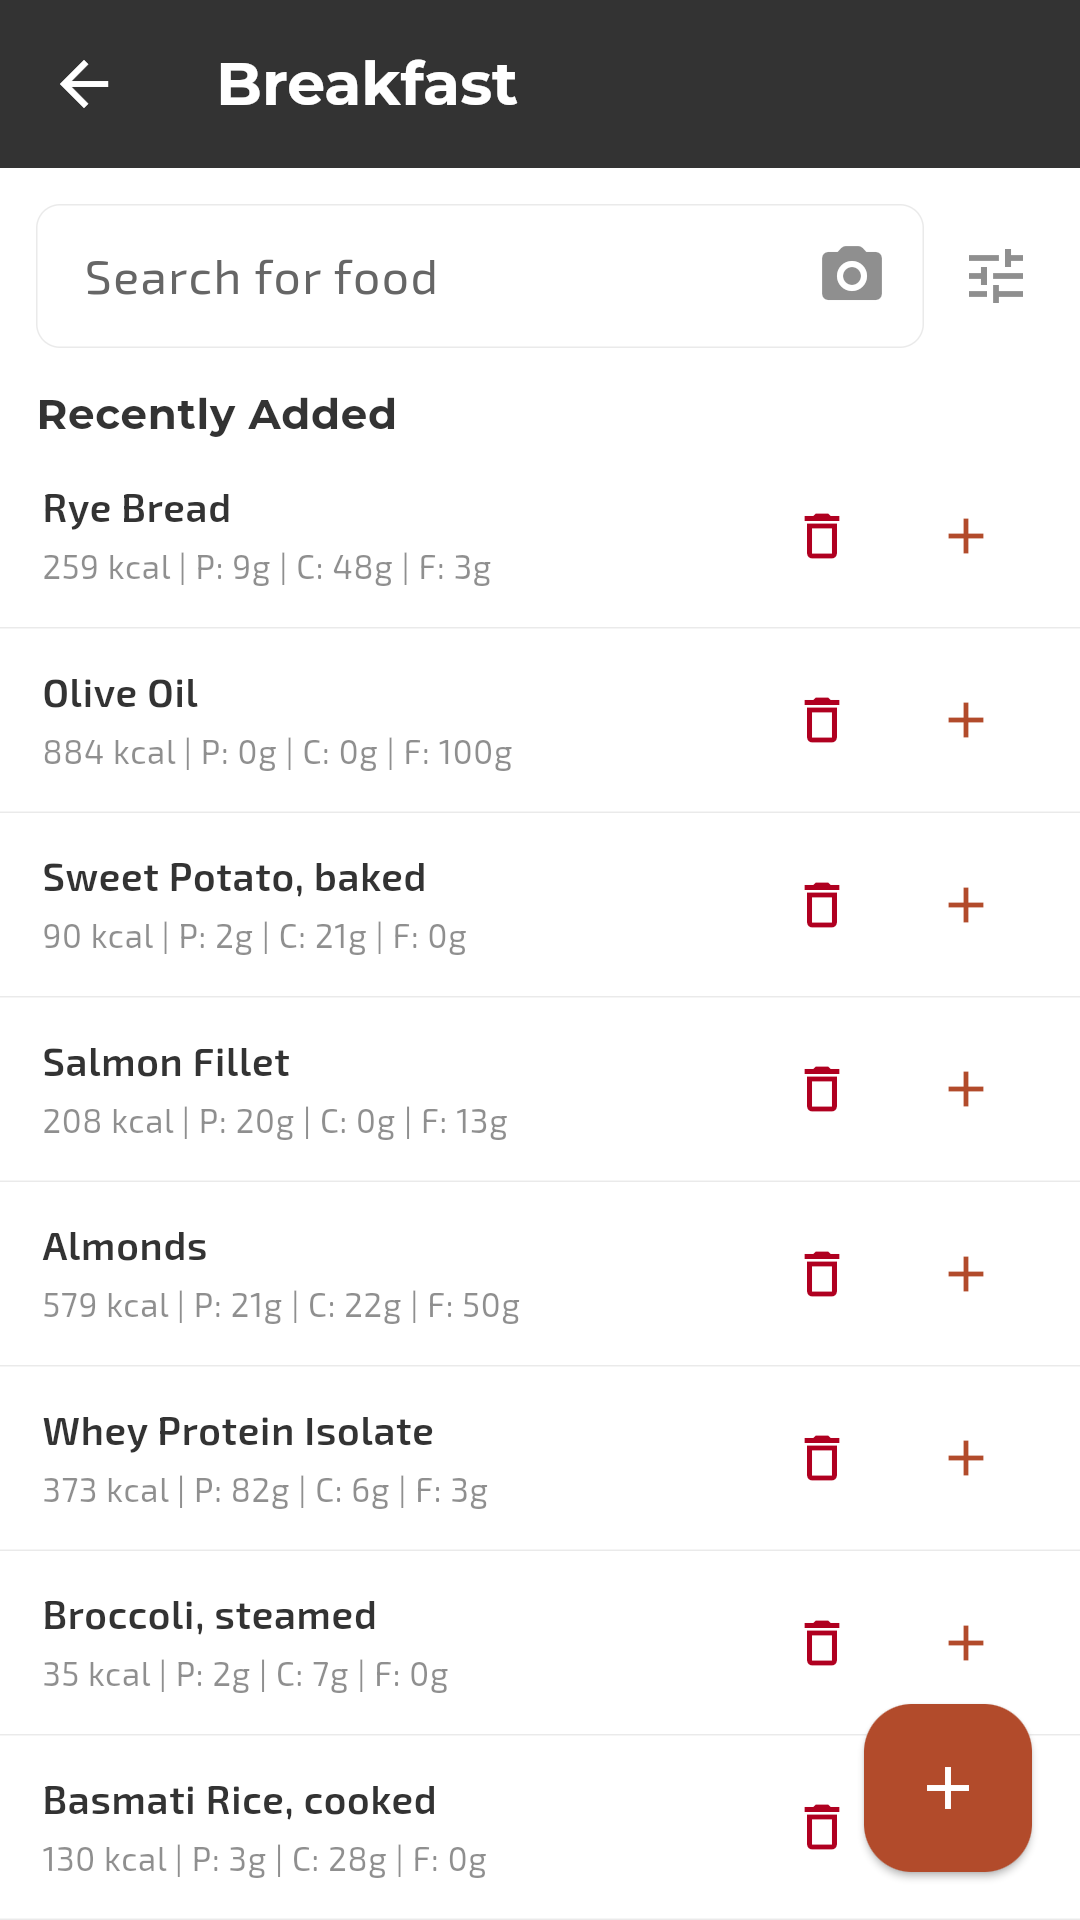
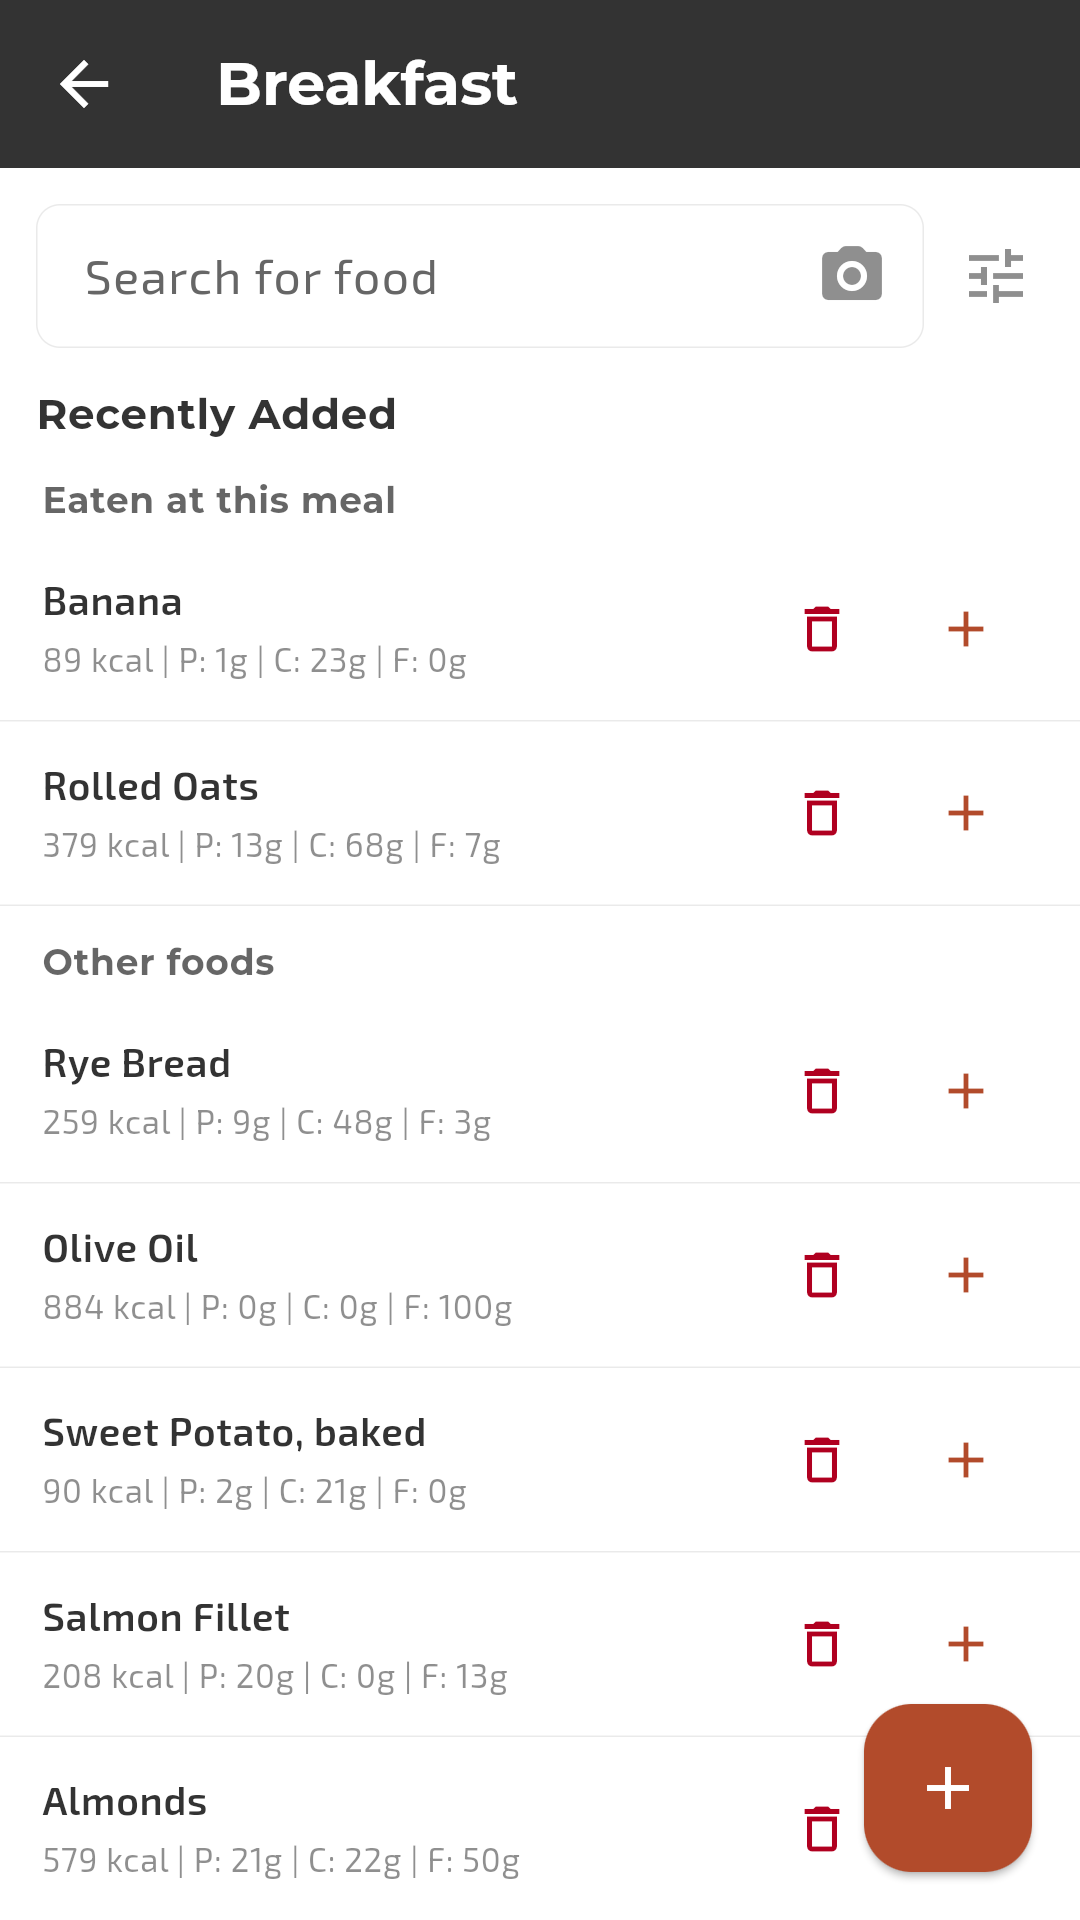
Recapture the store screenshots against main, now the food fix has landed
`claude/food-search-meal-organization-5m043l` merged; main is at 30291b7
(Release 1.0.2+15). Merged it into this branch, rebuilt the web bundle from it,
and re-ran the capture and compose steps.

The food picker frame is the one that changed. It showed the pre-fix "Recently
Added" — one flat list in row-id order, identical whichever meal you were
logging — and now shows what that branch introduced: an "Eaten at this meal"
group, holding the foods this account actually eats at breakfast, above a
second "Other foods" group.

This is the case the capture pipeline exists for, and the reason the mockups it
replaced were the wrong deliverable. A drawing goes on showing whatever the
person drawing it remembered, indefinitely and invisibly. A capture had to be
re-run against the merged code, and the change is a diff in a PNG.

The two open data problems are unchanged and still recorded in
store/screenshots/README.md: Progress -> Gym reads 1 total workout despite eight
completed sessions being posted, and the Calorie Trend still draws a flat line
with `GET /api/Meal` returning 500.

Claude-Session: https://claude.ai/code/session_01Hm9JjqvEBtPm6Da1rPYGgE

diff --git a/CHANGELOG.md b/CHANGELOG.md
@@ -23,6 +23,7 @@ it is what those users have, and nothing new belongs in it. See
 - Fixed coach chat being unreachable in review/test builds: the seed's two trainee accounts were never linked to a trainer, so the card that opens it never rendered. Not an app defect — the previous note calling this a possible one was wrong; see `docs/frontend-design-review.md` section 14 for the correction.
 - Added `store/` — the App Store and Google Play listing package: subtitle, promotional text, short description, long description, ASO keywords, and six store screenshots. Every claim in the copy is traced to a symbol in this repo rather than to a memory of the app, and doing that turned up two places where the app's own copy contradicts the app's own behaviour: the paywall advertises CSV export as a Premium feature but none of the four export tiles in Settings is wrapped in `PremiumGate`, so a free user gets their CSV; and `PremiumGate` wraps the rest-timer *switch* rather than the timer, whose preference defaults to true and is read with no entitlement check, so free users get the rest timer and cannot turn it off while paying users get the ability to turn it off. Neither is fixed here — each is a one-line change and the two possible fixes are opposite, so both need a product decision. The listing describes the shipped behaviour in both cases.
 - The screenshots are captured from the running app and then framed. `store/screenshots/capture-app.mjs` drives the built Flutter web bundle in a browser, signs in through the real login screen as the account `e2e/tools/seed-review-data.mjs` seeds, and photographs seven screens at both stores' phone sizes; `compose.mjs` wraps six of them in a headline band and a device bezel, which is what gets uploaded. The two steps stay separate so the bare captures remain in the repo as evidence that the artwork contains real app pixels — nothing in the compositing step redraws a screen. `store/screenshots/README.md` is the runbook for the Postgres/API/seed/build stack it all needs. An earlier revision shipped hand-written HTML mockups of the app instead, which was wrong: held against the running app they had the theme, the tab count, the dashboard's cards and the entire set-logging flow wrong — the app logs one set at a time through a stepper, not a table. Three things the capture path turned up and now encodes: the app throws `Incorrect locale information provided` and never mounts if the browser's locale is one `intl` cannot parse, which surfaces only as a boot timeout; the Dashboard must be shot after other screens because its aggregates are only correct once `SyncService.pullAll()` has landed, and shooting it first photographs zeroes on a populated account; and a pushed route cannot be popped with browser-back, with the food-search screen exposing no back control to the accessibility tree at all — a dead end for a screen-reader user too, and worth fixing in the app.
+- Recaptured the store screenshots against main at `30291b7`, now that `claude/food-search-meal-organization-5m043l` has merged. The food picker frame previously showed the pre-fix "Recently Added" — one flat list in row-id order — and now shows what that branch introduced: an "Eaten at this meal" group above "Other foods". This is the case the capture pipeline exists for. A drawn mockup would have gone on showing whichever list the person drawing it remembered; a capture had to be re-run against the merged code, and the change is visible in the diff of the PNG.
 - Added `store/screenshots/seed-screenshot-extras.mjs`, which tops the seeded trainee up with completed training history and per-day calorie variation. It is deliberately separate from `e2e/tools/seed-review-data.mjs`, whose counts the Playwright suite asserts against — bending a test fixture to suit marketing artwork is how a fixture stops meaning anything. It also records a bug in that fixture's arithmetic: the one session it marks complete is dated `daysAgo(i - 2)` with `i === 0`, which is two days in the *future*, so Progress counted zero completed workouts on an account that looked fully populated everywhere else. Two things remain unresolved and are written down rather than papered over: Progress → Gym still reads 1 total workout and a 0-day streak even after eight completed sessions are posted across the last ten days, and still shows "No workout data yet" under Exercise Progress — most likely because those tiles count logged sessions with sets rather than scheduled workouts flagged complete, which is unconfirmed; and the Calorie Trend still draws a flat line, with the cause unestablished because `GET /api/Meal` returns 500 on this build. That 500 is worth a look on its own. See `docs/store-listing.md`.
 - Found and documented, not yet fixed: the Trainer Console roster's Grid view (its default) renders each client's name, program, adherence and last session, none of which reaches a screen reader — not unlabelled, entirely absent from the accessibility tree. Table view, showing the same data, is unaffected. See `docs/frontend-design-review.md` section 14.
 - The food search opened from a meal now orders "Recently Added" by that meal. Breakfast, lunch, dinner and snacks all showed the identical list in the identical order, because the list read the device's food library — which records no meal and no time — and sorted it by row id. The category the screen is opened with was used for the title and for the write, and never for the read, so a user logging breakfast scrolled past their lunch foods to reach their breakfast ones every morning. Foods previously eaten at the meal being logged now come first under their own heading, most recently eaten first, with everything else under a second heading; a meal with no history renders flat, with no headings, as before. The match is on food name rather than on `MealFoodTable.foodEntryId`, because adding a food from the recent list writes a *new* `FoodItem` row for that portion — the id in the meal is never the id on screen, so the obvious join returns nothing and reports no error. The client's `Snack`/`Snacks` fold now lives in one `MealCategory` helper mirroring the server's, which the Trainer Console's private copy delegates to. See `docs/recent-foods-by-meal.md`.

diff --git a/store/LISTING.md b/store/LISTING.md
@@ -216,7 +216,7 @@ proposition, because in search results it is often the only one seen.
 | 1 | Training and nutrition. **One app.** | Dashboard — 2186 kcal, 1/3 workouts, Upper A, weight progress |
 | 2 | Log a set. **Keep moving.** | Active workout — Bench Press, 82.5 kg × 8 |
 | 3 | Macros that **actually add up.** | A logged day — 2,186 / 2,000 kcal, macros, meals by category |
-| 4 | Log food **in seconds.** | The food picker for one meal |
+| 4 | Log food **in seconds.** | The food picker for one meal — "Eaten at this meal" above "Other foods" |
 | 5 | See the trend, **not just today.** | Progress → Nutrition over the selected range |
 | 6 | Your plan, **on your calendar.** | Today's scheduled session — Upper A, 55 min |
 
@@ -242,9 +242,6 @@ and nothing more:
   same total; the extra snacks the top-up posts do not move it and the cause is
   not established (`GET /api/Meal` returns 500 on this build, which blocked the
   diagnostic and is worth a look on its own).
-- **`05-food-search` shows the pre-fix "Recently Added".** One flat list — the
-  exact behaviour `claude/food-search-meal-organization-5m043l` changes.
-  Recapture after that branch merges.
 - **Padlocks are visible** on the Progress range selector (All Time, Custom).
   Truthful, but decide deliberately whether to lead with locked features.
 The app is **light-themed by default**, which is what these show. The copy above

diff --git a/store/screenshots/README.md b/store/screenshots/README.md
@@ -99,6 +99,11 @@ viewport and waits for it to fade.
 These are real captures of seeded review data, and two things about that data
 are not yet right. Neither is a photography problem.
 
+(`05-food-search` was on this list until
+`claude/food-search-meal-organization-5m043l` merged. It now correctly shows
+"Eaten at this meal" above "Other foods" — recaptured against main at
+`30291b7`.)
+
 **Progress → Gym still reads 1 total workout and a 0-day current streak.**
 `seed-review-data.mjs` marks one session complete at `daysAgo(i - 2)` with
 `i === 0` — two days in the *future*, which is why the 7-day window read zero
@@ -115,10 +120,6 @@ identical set of meals every day. `seed-screenshot-extras.mjs` adds a different
 extra snack on five of the last seven days and the API accepts them, but the
 chart is unchanged. Cause not established — `GET /api/Meal` returns 500 on this
 build, which is itself worth a look, and it blocked the obvious diagnostic.
-
-**`05-food-search` shows "Recently Added" as one flat list.** That is exactly
-the behaviour `claude/food-search-meal-organization-5m043l` changes — it
-partitions the list by the meal being logged. Recapture after that merges.
 
 **The paywall's padlocks are visible** on the Progress range selector (All Time,
 Custom). Truthful, and worth a deliberate decision: some teams prefer not to
